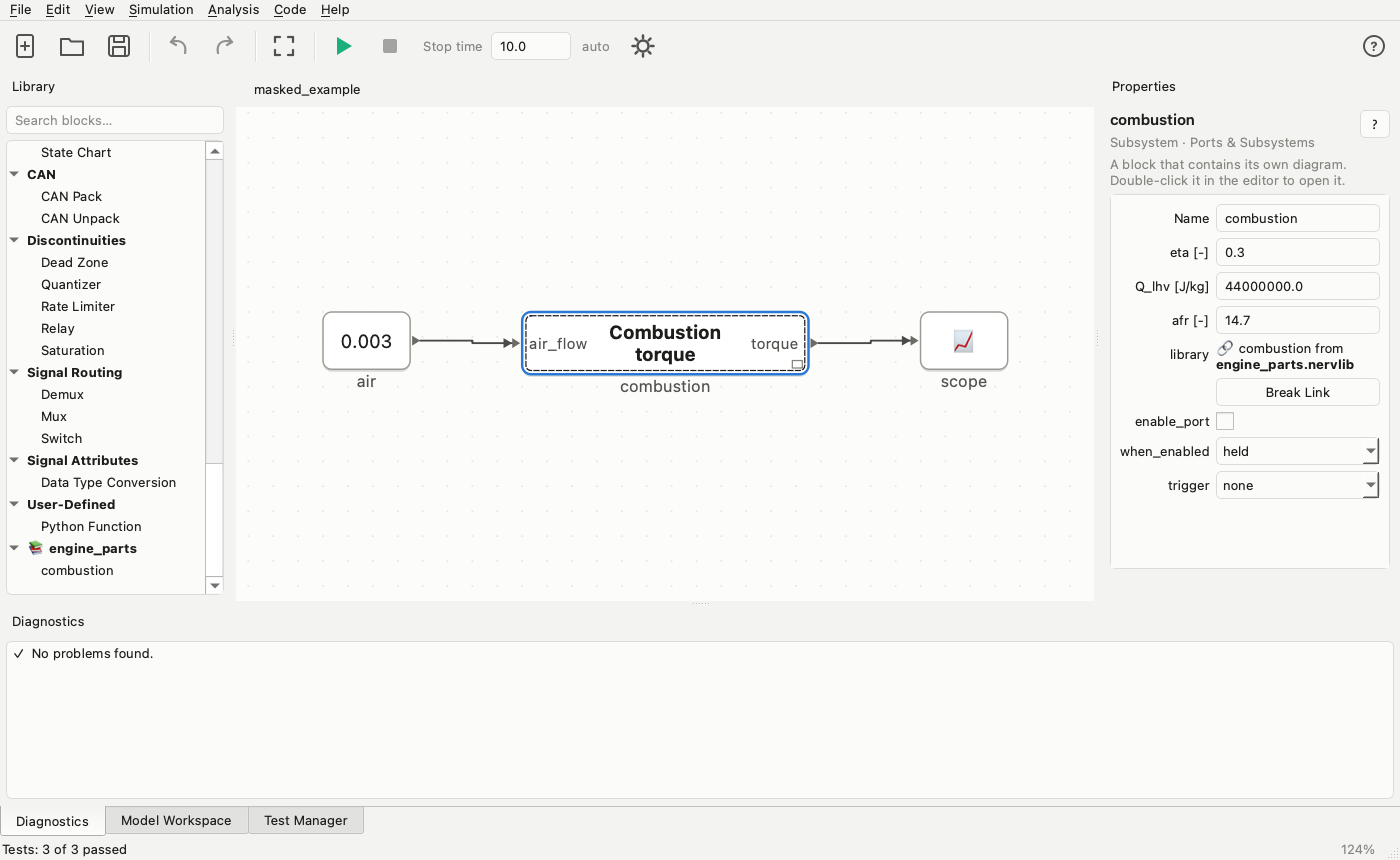
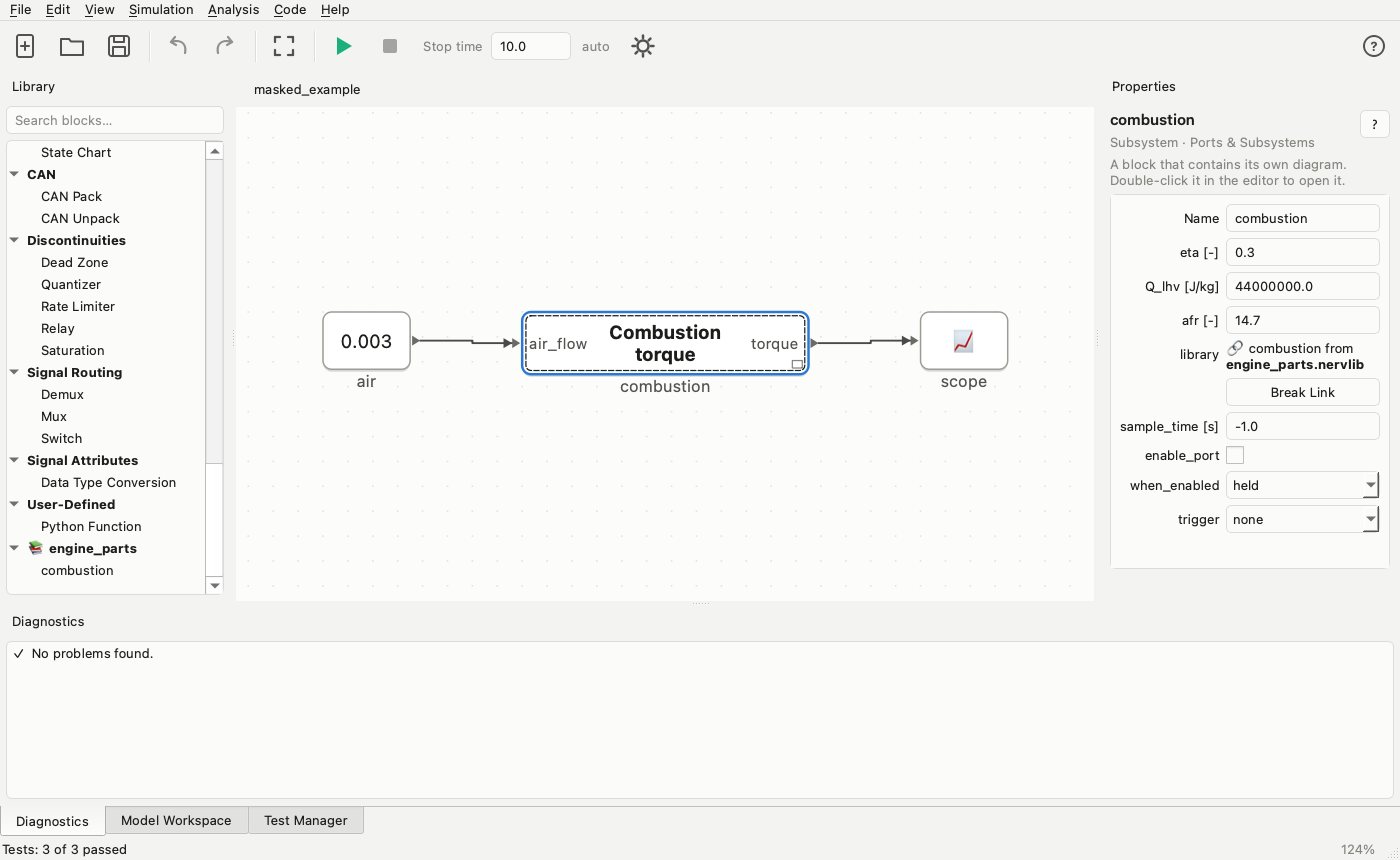
Add atomic subsystems with their own sample time (phase 9)
- Subsystem sample_time: inherited blocks inside run at the task period
  (inner tasks keep theirs), inputs sampled, outputs held
- Continuous states inside a discrete task are rejected
- Period shown on the block; multirate SIL test of two tasks
- Docs, help, screenshot

Claude-Session: https://claude.ai/code/session_01VarAEesyLXHz6dcSdpzjd5

Changed region(s): [[0.7986, 0.2419, 0.9829, 0.5744], [0.9829, 0.514, 1.0, 0.5442]]

diff --git a/tests/test_atomic.py b/tests/test_atomic.py
@@ -1,0 +1,70 @@
+import numpy as np
+import pytest
+
+from nervus import Diagram, ModelError, simulate
+from nervus.blocks import Counter, Gain, Inport, Integrator, Outport, Scope, Sine, Subsystem, UnitDelay
+
+
+def task(period: float, inner_block=None) -> Subsystem:  # type: ignore[no-untyped-def]
+    d = Diagram()
+    u = d.add(Inport(port=1), name="u")
+    g = d.add(inner_block if inner_block is not None else Gain(gain=2.0), name="work")
+    d.chain(u, g, d.add(Outport(port=1), name="y"))
+    return Subsystem(system=d, sample_time=period)
+
+
+def test_task_samples_inputs_and_holds_outputs() -> None:
+    d = Diagram()
+    s = d.add(task(0.1), name="task_10ms")
+    d.chain(d.add(Sine(), name="sine"), s, d.add(Scope()))
+    from nervus.sim.compiler import compile_diagram
+
+    m = compile_diagram(d)
+    assert m.sample_times[m.index_of("task_10ms/work")].period == 0.1
+    r = simulate(d, 1.0, solver="rk4", step=0.01)
+    t, y = r.t, r["task_10ms/work"]
+    k = int(np.argmin(abs(t - 0.35)))  # between hits at 0.3 and 0.4: holds 2 * sin(0.3)
+    assert y[k] == pytest.approx(2 * np.sin(0.3), abs=1e-9)
+
+
+def test_inherited_counter_runs_at_task_rate_and_inner_rate_wins() -> None:
+    d = Diagram()
+    outer_sys = Diagram()
+    i = outer_sys.add(Inport(port=1), name="i")
+    inner = outer_sys.add(task(0.5, Counter(limit=1000)), name="slow")
+    fast = outer_sys.add(Counter(limit=1000), name="fast_count")
+    outer_sys.chain(i, inner, outer_sys.add(Outport(port=1), name="o1"))
+    outer_sys.chain(i, fast, outer_sys.add(Outport(port=2), name="o2"))
+    outer = d.add(Subsystem(system=outer_sys, sample_time=0.1), name="ecu")
+    d.chain(d.add(Sine(bias=2.0)), outer)
+    d.connect((outer, 0), d.add(Scope()))
+    d.connect((outer, 1), d.add(Scope()))
+    r = simulate(d, 2.0, solver="rk4", step=0.01)
+    assert r["ecu/fast_count"][-1] == 20  # every 0.1 s (outputs before the update at t = 2.0)
+    assert r["ecu/slow/work"][-1] == 4  # every 0.5 s
+
+
+def test_continuous_states_rejected() -> None:
+    d = Diagram()
+    s = d.add(task(0.1, Integrator()), name="task")
+    d.chain(d.add(Sine()), s, d.add(Scope()))
+    with pytest.raises(ModelError, match="discrete sample time"):
+        simulate(d, 1.0)
+
+
+def test_two_tasks_codegen(tmp_path) -> None:  # type: ignore[no-untyped-def]
+    from nervus.codegen.sil import back_to_back, find_compiler
+
+    if find_compiler() is None:
+        pytest.skip("no C compiler")
+    d = Diagram("tasks")
+    u = d.add(Inport(port=1), name="u")
+    fast = d.add(task(0.01, UnitDelay(sample_time=-1)), name="task_10ms")
+    slow = d.add(task(0.1, Counter(limit=1000)), name="task_100ms")
+    d.chain(u, fast, d.add(Outport(port=1), name="y_fast"))
+    d.connect(u, slow)
+    d.connect(slow, d.add(Outport(port=2), name="y_slow"))
+    k = np.arange(100)
+    res = back_to_back(d, {"u": np.sin(0.1 * k) + 1.5}, 100, tolerance=1e-12, folder=tmp_path)
+    assert res.passed, res.summary()
+    assert res.c["y_slow"][-1, 0] == 9

diff --git a/src/nervus/sim/compiler.py b/src/nervus/sim/compiler.py
@@ -362,7 +362,8 @@ def compile_diagram(diagram: Diagram, params: dict[str, Any] | None = None) -> C
     trigger = [[(pos[s], p, e) for s, p, e in graph.trigger[i]] for i in order]
     feedthrough = [feedthrough[i] for i in order]
 
-    sample_times = _resolve_sample_times(blocks, inputs)
+    task_rate = [graph.task_rate[i] for i in order]
+    sample_times = _resolve_sample_times(blocks, inputs, task_rate)
     for b, st in zip(blocks, sample_times, strict=True):
         b.resolved_sample_time = st
 
@@ -370,9 +371,15 @@ def compile_diagram(diagram: Diagram, params: dict[str, Any] | None = None) -> C
     xc_slices: list[slice] = []
     xd0: list[Array] = []
     n = 0
-    for b, name, st, triggered in zip(blocks, names, sample_times, trigger, strict=True):
+    for b, name, st, triggered, rate in zip(blocks, names, sample_times, trigger, task_rate, strict=True):
         xc = as_signal(b.initial_continuous_state())
         xd = as_signal(b.initial_discrete_state())
+        if xc.size and rate is not None and rate.is_discrete:
+            raise ModelError(
+                f"{name}: blocks with continuous states cannot be inside a subsystem with a discrete sample time "
+                f"({rate}); use a discrete equivalent (e.g. Discrete-Time Integrator)",
+                (name,),
+            )
         if xc.size and triggered:
             raise ModelError(
                 f"{name}: blocks with continuous states cannot be inside a triggered subsystem "
@@ -536,18 +543,25 @@ def _find_cycle(candidates: list[int], deps: list[set[int]]) -> list[int]:
     return cycle
 
 
-def _resolve_sample_times(blocks: list[Block], inputs: list[list[tuple[int, int]]]) -> list[SampleTime]:
+def _resolve_sample_times(
+    blocks: list[Block], inputs: list[list[tuple[int, int]]], task_rate: list[SampleTime | None] | None = None
+) -> list[SampleTime]:
+    """Resolve inherited sample times. Blocks inside an atomic subsystem with its own sample time
+    (``task_rate``) take that rate; other inherited blocks take the rate of their inputs."""
+    forced = task_rate or [None] * len(blocks)
     sts: list[SampleTime | None] = []
-    for b in blocks:
+    for b, rate in zip(blocks, forced, strict=True):
         st = b.sample_time()
-        if st.is_inherited:
+        if st.is_inherited and rate is not None:
+            sts.append(rate)
+        elif st.is_inherited:
             sts.append(CONTINUOUS if b.num_inputs() == 0 else None)
         else:
             sts.append(st)
     for _ in range(2 * len(blocks) + 5):
         changed = False
         for i, b in enumerate(blocks):
-            if not b.sample_time().is_inherited or b.num_inputs() == 0:
+            if not b.sample_time().is_inherited or b.num_inputs() == 0 or forced[i] is not None:
                 continue
             known = {sts[s] for s, _ in inputs[i] if sts[s] is not None}
             if not known:

diff --git a/scripts/screenshots.py b/scripts/screenshots.py
@@ -55,6 +55,50 @@ def gated_example():  # type: ignore[no-untyped-def]
     return d
 
 
+def tasks_example():  # type: ignore[no-untyped-def]
+    """An ECU with a 10 ms and a 100 ms task (atomic subsystems with their own sample time)."""
+    from nervus.blocks import DiscretePID, Inport, MovingAverage, Outport, Scope, Sine, Subsystem, Sum
+    from nervus.core import Diagram
+
+    d = Diagram("tasks_example")
+    fast = Diagram()
+    rpm = fast.add(Inport(port=1), name="rpm")
+    target = fast.add(Inport(port=2), name="target")
+    err = fast.add(Sum(signs="-+"), name="error")
+    fast.connect(rpm, err.in_port(0))
+    fast.connect(target, err.in_port(1))
+    fast.chain(
+        err,
+        fast.add(DiscretePID(P=0.04, I=0.03, sample_time=-1), name="idle_pi"),
+        fast.add(Outport(port=1), name="throttle"),
+    )
+    slow = Diagram()
+    temp = slow.add(Inport(port=1), name="coolant_temp")
+    slow.chain(
+        temp,
+        slow.add(MovingAverage(length=10, sample_time=-1), name="filter"),
+        slow.add(Outport(port=1), name="temp_filtered"),
+    )
+    t10 = d.add(Subsystem(system=fast, sample_time=0.01), name="task_10ms")
+    t100 = d.add(Subsystem(system=slow, sample_time=0.1), name="task_100ms")
+    d.connect(d.add(Sine(amplitude=20.0, bias=800.0), name="engine_rpm"), (t10, 0))
+    d.connect(d.add(Sine(amplitude=0.0, bias=800.0), name="target_rpm"), (t10, 1))
+    d.chain(d.add(Sine(amplitude=2.0, bias=90.0), name="coolant_sensor"), t100)
+    d.connect(t10, d.add(Scope(), name="throttle_cmd"))
+    d.connect(t100, d.add(Scope(), name="coolant"))
+    for name, (x, y) in {
+        "engine_rpm": (0, 0),
+        "target_rpm": (0, 110),
+        "task_10ms": (200, 40),
+        "throttle_cmd": (520, 40),
+        "coolant_sensor": (0, 260),
+        "task_100ms": (200, 260),
+        "coolant": (520, 260),
+    }.items():
+        d.block(name).meta["position"] = [float(x), float(y)]
+    return d
+
+
 def grab(widget: QWidget, name: str) -> None:
     QApplication.processEvents()
     widget.grab().save(str(OUT / name))
@@ -155,6 +199,11 @@ def main() -> None:
             mdlg.show()
             grab(mdlg, "mask-dialog.png")
             mdlg.close()
+
+            # Atomic subsystems with their own task period.
+            win.diagram_model.set_diagram(tasks_example())
+            win.view.fit()
+            grab(win.view, "subsystem-tasks.png")
 
             # Enabled and triggered subsystem.
             gd = gated_example()

diff --git a/src/nervus/sim/flatten.py b/src/nervus/sim/flatten.py
@@ -8,6 +8,7 @@ they are the model's external inputs and outputs.
 from __future__ import annotations
 
 from dataclasses import dataclass, field
+from typing import Any
 
 from nervus.blocks.ports import Inport, Outport, PortProxy, Subsystem
 from nervus.core.block import Block
@@ -28,6 +29,8 @@ class FlatGraph:
     """For each node, the enable signals (source node, port) of enclosing enabled subsystems (all must be > 0)."""
     reset_on_enable: list[bool] = field(default_factory=list)
     """For each node: reset its discrete state when an enclosing subsystem is enabled again."""
+    task_rate: list[Any] = field(default_factory=list)
+    """For each node, the sample time of the innermost enclosing subsystem that has one (or None)."""
     trigger: list[list[tuple[int, int, str]]] = field(default_factory=list)
     """For each node, the trigger signals (source node, port, edge) of enclosing triggered subsystems."""
 
@@ -53,6 +56,11 @@ def _add(diagram: Diagram, prefix: str, g: FlatGraph, top: bool) -> dict[int, in
             first = len(g.blocks)
             subs[id(b)] = (b, _add(b.system, name + "/", g, top=False))
             spans[id(b)] = range(first, len(g.blocks))
+            rate = b.sample_time()
+            if not rate.is_inherited:
+                for k in spans[id(b)]:
+                    if g.task_rate[k] is None:  # an inner subsystem's own rate wins
+                        g.task_rate[k] = rate
             continue
         if not top and isinstance(b, Inport | Outport):
             proxy = PortProxy(name)
@@ -66,6 +74,7 @@ def _add(diagram: Diagram, prefix: str, g: FlatGraph, top: bool) -> dict[int, in
         g.enable.append([])
         g.reset_on_enable.append(False)
         g.trigger.append([])
+        g.task_rate.append(None)
         node[id(b)] = len(g.blocks) - 1
 
     def source(b: Block, port: int) -> tuple[int, int]:

diff --git a/src/nervus/blocks/ports.py b/src/nervus/blocks/ports.py
@@ -159,6 +159,10 @@ class Subsystem(Block):
     petrol and a diesel engine model. Each variant can have a condition such as ``ENGINE == 2`` on workspace
     variables; the one whose condition is true is simulated and turned into C code.
 
+    With a *sample_time* the subsystem is an **atomic task**, like one task of an ECU's operating system: every
+    block inside that inherits its sample time runs at that period. Its inputs are sampled at the start of each
+    period and its outputs held until the next one. Blocks with continuous states are not allowed inside.
+
     With *enable_port* the subsystem gets an extra last input, **enable**. While it is ≤ 0 nothing inside
     runs: outputs and discrete states are held and continuous states stop. With *when_enabled* = ``reset``
     the discrete states return to their initial values each time the subsystem is enabled again.
@@ -177,6 +181,13 @@ class Subsystem(Block):
     label = "Subsystem"
     category = CATEGORY
     PARAMS = (
+        Param(
+            "sample_time",
+            -1.0,
+            ParamKind.SAMPLE_TIME,
+            "Task period for the blocks inside that inherit theirs (-1 = no own rate)",
+            "s",
+        ),
         Param("enable_port", False, ParamKind.BOOL, "Add an enable input: the subsystem only runs while it is > 0"),
         Param(
             "when_enabled",

diff --git a/src/nervus/gui/views/items.py b/src/nervus/gui/views/items.py
@@ -201,6 +201,15 @@ class BlockItem(QGraphicsItem):
             painter.setBrush(Qt.BrushStyle.NoBrush)
             painter.drawRoundedRect(rect.adjusted(3, 3, -3, -3), 4, 4)
             painter.setPen(t.color("block_text"))
+        st = sub.params.get("sample_time", -1.0)
+        if isinstance(st, int | float) and st > 0:
+            period = f"{st * 1000:g} ms" if st < 1 else f"{st:g} s"
+            small = QFont(painter.font())
+            small.setPointSizeF(max(6.0, small.pointSizeF() - 1))
+            painter.setFont(small)
+            painter.drawText(
+                rect.adjusted(6, 0, -18, -2), Qt.AlignmentFlag.AlignBottom | Qt.AlignmentFlag.AlignRight, f"⏱ {period}"
+            )
         if getattr(sub, "variants", None):
             small = QFont(painter.font())
             small.setPointSizeF(max(6.0, small.pointSizeF() - 1))

diff --git a/docs/blocks/ports-subsystems.md b/docs/blocks/ports-subsystems.md
@@ -53,6 +53,10 @@ A subsystem can have **variants**: alternative implementations with the same inp
 petrol and a diesel engine model. Each variant can have a condition such as ``ENGINE == 2`` on workspace
 variables; the one whose condition is true is simulated and turned into C code.
 
+With a *sample_time* the subsystem is an **atomic task**, like one task of an ECU's operating system: every
+block inside that inherits its sample time runs at that period. Its inputs are sampled at the start of each
+period and its outputs held until the next one. Blocks with continuous states are not allowed inside.
+
 With *enable_port* the subsystem gets an extra last input, **enable**. While it is ≤ 0 nothing inside
 runs: outputs and discrete states are held and continuous states stop. With *when_enabled* = ``reset``
 the discrete states return to their initial values each time the subsystem is enabled again.
@@ -70,6 +74,7 @@ structure a model the way functions structure code: one subsystem per ECU functi
 
 | Name | Default | Unit | Description |
 |---|---|---|---|
+| `sample_time` | -1 (inherited) | s | Task period for the blocks inside that inherit theirs (-1 = no own rate) |
 | `enable_port` | `False` |  | Add an enable input: the subsystem only runs while it is > 0 |
 | `when_enabled` | `'held'` |  | Discrete states when the subsystem is enabled again — one of `held`, `reset` |
 | `trigger` | `'none'` |  | Add a trigger input: the subsystem only runs when it has this kind of edge — one of `none`, `rising`, `falling`, `either` |

diff --git a/docs/subsystems.md b/docs/subsystems.md
@@ -25,6 +25,27 @@ Double-click it to open it. The breadcrumb bar shows the path back to the model:
 Lines crossing the selection boundary become **In**/**Out** ports. Undo works across levels and opens the
 subsystem where the change is undone.
 
+## Atomic subsystems: one ECU task
+
+An ECU's operating system runs its software in **tasks** with fixed periods, such as a 10 ms task for idle
+speed and throttle control and a 100 ms task for temperatures. In Nervus, a subsystem with a *sample_time*
+is such a task:
+
+![A 10 ms and a 100 ms task](images/subsystem-tasks.png)
+
+- Every block inside that **inherits** its sample time (`-1`, e.g. Gain, Sum, Counter, Discrete PID with
+  `sample_time = -1`) runs at the task period. Blocks with their own sample time keep it, and an inner task
+  keeps its own period.
+- The inputs are **sampled** at the start of each period and the outputs **held** until the next one, as if
+  the task read its inputs from RAM when it starts.
+- Blocks with continuous states (Integrator, Transfer Function) are not allowed inside. Use their discrete
+  versions.
+- The block shows its period (⏱ 10 ms). In generated C the multirate scheduler runs each task's blocks at
+  its rate.
+
+So you set the period in one place, and every block in the task follows it: change `sample_time` to
+`"Ts_fast"` and the whole task moves with the workspace variable.
+
 ## Enabled subsystems
 
 Tick *enable_port* in a subsystem's Properties to give it an extra last input, **⏻ enable**. While the

diff --git a/docs/app-help/subsystems.md b/docs/app-help/subsystems.md
@@ -34,6 +34,25 @@ Blocks inside subsystems are named by their path: `ECU/throttle_pi`, `ECU/fuel/m
 read results (`res["ECU/throttle_pi"]`). Clicking a diagnostic opens the subsystem and selects the block. A
 subsystem that contains an error is outlined in red.
 
+## Atomic subsystems: one ECU task
+
+An ECU's operating system runs its software in **tasks** with fixed periods, such as a 10 ms task for idle
+speed and throttle control and a 100 ms task for temperatures. In Nervus, a subsystem with a *sample_time*
+is such a task:
+
+- Every block inside that **inherits** its sample time (`-1`, e.g. Gain, Sum, Counter, Discrete PID with
+  `sample_time = -1`) runs at the task period. Blocks with their own sample time keep it, and an inner task
+  keeps its own period.
+- The inputs are **sampled** at the start of each period and the outputs **held** until the next one, as if
+  the task read its inputs from RAM when it starts.
+- Blocks with continuous states (Integrator, Transfer Function) are not allowed inside. Use their discrete
+  versions.
+- The block shows its period (⏱ 10 ms). In generated C the multirate scheduler runs each task's blocks at
+  its rate.
+
+So you set the period in one place, and every block in the task follows it: change `sample_time` to
+`"Ts_fast"` and the whole task moves with the workspace variable.
+
 ## Enabled subsystems
 
 Tick *enable_port* in a subsystem's Properties to give it an extra last input, **⏻ enable**. While the

diff --git a/src/nervus/gui/resources/help/subsystems.md b/src/nervus/gui/resources/help/subsystems.md
@@ -34,6 +34,25 @@ Blocks inside subsystems are named by their path: `ECU/throttle_pi`, `ECU/fuel/m
 read results (`res["ECU/throttle_pi"]`). Clicking a diagnostic opens the subsystem and selects the block. A
 subsystem that contains an error is outlined in red.
 
+## Atomic subsystems: one ECU task
+
+An ECU's operating system runs its software in **tasks** with fixed periods, such as a 10 ms task for idle
+speed and throttle control and a 100 ms task for temperatures. In Nervus, a subsystem with a *sample_time*
+is such a task:
+
+- Every block inside that **inherits** its sample time (`-1`, e.g. Gain, Sum, Counter, Discrete PID with
+  `sample_time = -1`) runs at the task period. Blocks with their own sample time keep it, and an inner task
+  keeps its own period.
+- The inputs are **sampled** at the start of each period and the outputs **held** until the next one, as if
+  the task read its inputs from RAM when it starts.
+- Blocks with continuous states (Integrator, Transfer Function) are not allowed inside. Use their discrete
+  versions.
+- The block shows its period (⏱ 10 ms). In generated C the multirate scheduler runs each task's blocks at
+  its rate.
+
+So you set the period in one place, and every block in the task follows it: change `sample_time` to
+`"Ts_fast"` and the whole task moves with the workspace variable.
+
 ## Enabled subsystems
 
 Tick *enable_port* in a subsystem's Properties to give it an extra last input, **⏻ enable**. While the

diff --git a/CHANGELOG.md b/CHANGELOG.md
@@ -14,6 +14,8 @@ All notable changes to this project are documented here. The format follows
 - Discrete blocks with an inherited sample time used −1 as their period (Rate Limiter, Discrete Filter, ...).
 
 ### Added
+- Atomic subsystems: a subsystem *sample_time* makes it a task; inherited blocks inside run at that period,
+  inputs are sampled and outputs held; the period is shown on the block; multirate C code.
 - OBD-II: read stored, pending and permanent trouble codes (with descriptions of common codes), freeze frame
   values and the VIN; `python -m nervus.obd dtc`. Clearing codes is deliberately not supported.
 - Example `engine_library.py`: a mean-value engine and a throttle actuator as masked library components,

diff --git a/plan.md b/plan.md
@@ -153,7 +153,7 @@ tests/
 ## Phase 9 – Hierarchy: subsystems, masks, conditional execution, variants
 - [x] Subsystem block with Inport/Outport blocks; flattened at compile time
 - [x] GUI: double-click to open a subsystem, breadcrumb navigation, "Create Subsystem from Selection"
-- [ ] Atomic subsystems with their own sample time (one ECU task = one atomic subsystem)
+- [x] Atomic subsystems with their own sample time (one ECU task = one atomic subsystem)
 - [x] Masks: parameter dialog and icon text for a subsystem; mask parameters as local workspace (nested, C code)
 - [x] Enabled subsystems (held or reset states; C code)
 - [x] Triggered subsystems (rising/falling/either edge, combined with enable; C code)
